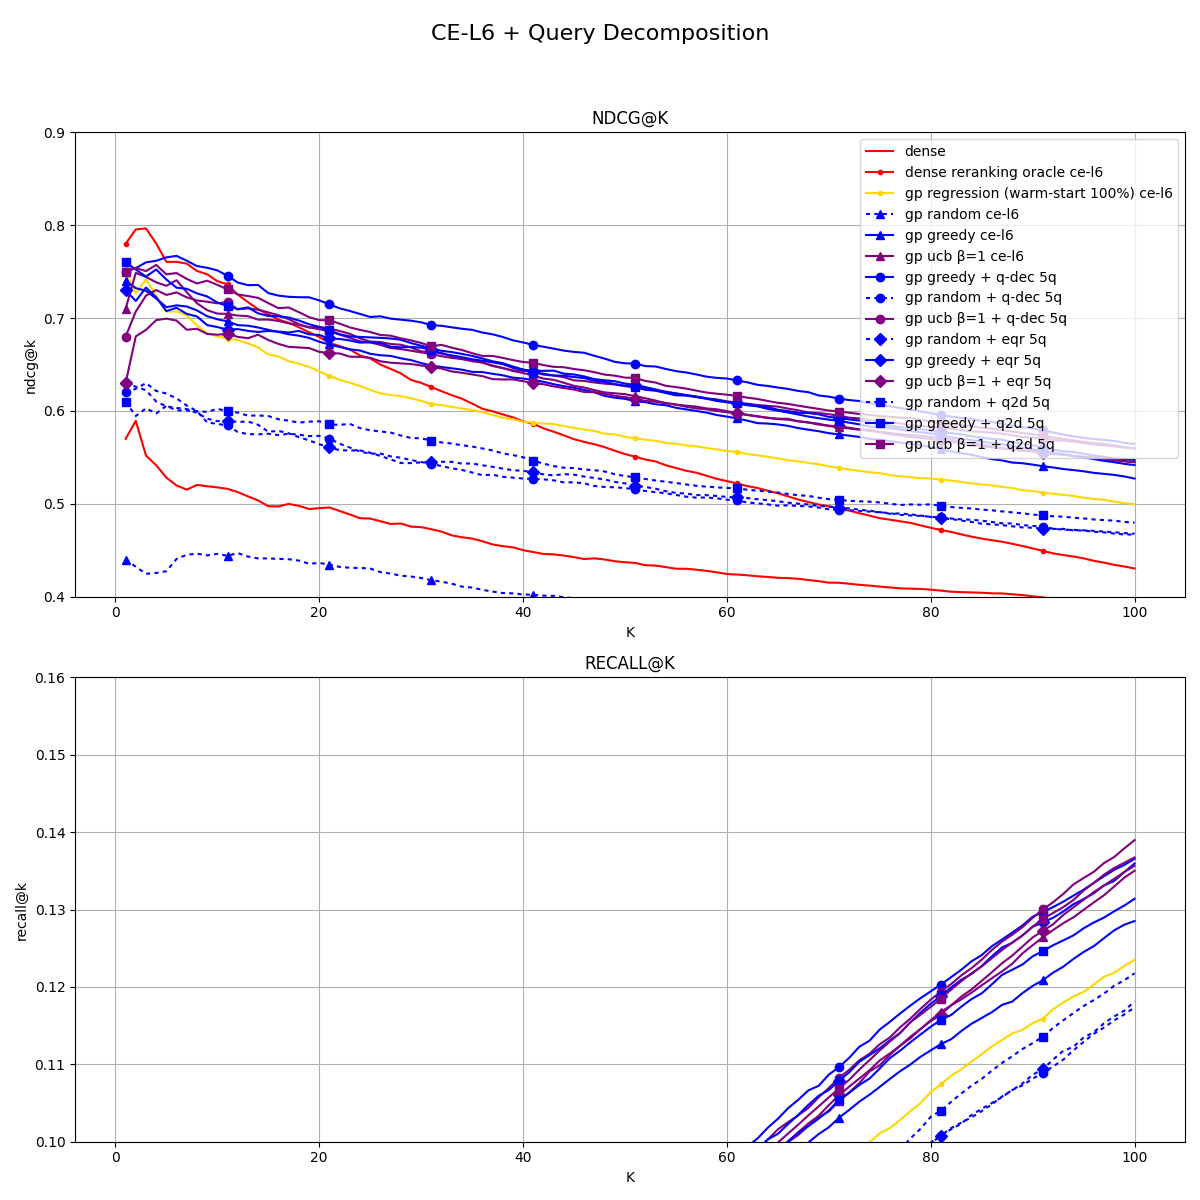
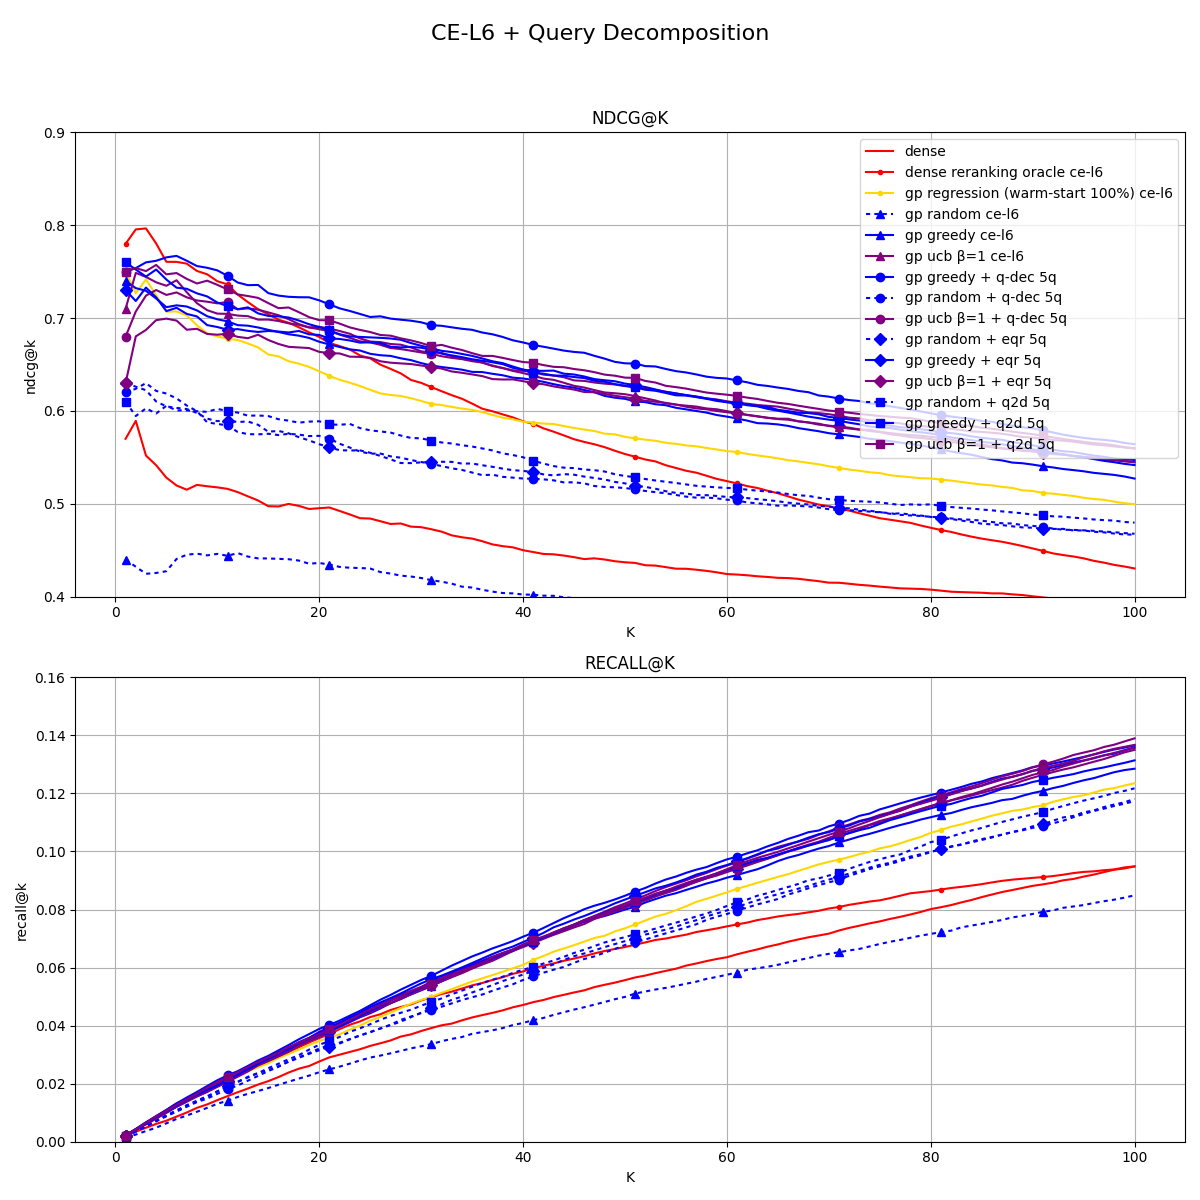
make and test ce time cleanup

diff --git a/scripts/data_gen_and_processing/make_ce_times_per_batch.py b/scripts/data_gen_and_processing/make_ce_times_per_batch.py
@@ -1,0 +1,145 @@
+# clean_obs_times.py
+#
+# Usage:
+#   python clean_obs_times.py "C:\path\to\experiments"
+#
+# What it does:
+# - Recursively finds any ".../detailed_results.json" whose PATH contains a directory
+#   with "ce" in its name (case-insensitive).
+# - For each hit:
+#   - reads config.yaml from (detailed_results.json).parent.parent / "config.yaml"
+#   - extracts active_learning.k_acq and active_learning.n_obs_iterations
+#   - greedily compresses observation_times until length <= ceil(n_obs_iterations / k_acq):
+#       repeatedly replace the contiguous window of length k_acq with the smallest sum
+#       by that sum (single element).
+#   - writes the modified JSON back in-place (with a .bak backup)
+
+import argparse
+import json
+import math
+import shutil
+from pathlib import Path
+
+import yaml
+
+
+def path_has_ce_dir(p: Path) -> bool:
+    # "dir 'ce' somewhere in the name" => any path component contains "ce"
+    # e.g., ".../dense_oracle/ce/l6/..." or ".../cache_ce_l6/..."
+    return any("ce" in part.lower() for part in p.parts)
+
+
+def load_k_acq_and_n_obs(config_path: Path) -> tuple[int, int]:
+    with config_path.open("r", encoding="utf-8") as f:
+        cfg = yaml.safe_load(f)
+
+    al = (cfg or {}).get("active_learning", {}) or {}
+    k_acq = int(al["k_acq"])
+    n_obs = int(al["n_obs_iterations"])
+    if k_acq <= 0 or n_obs < 0:
+        raise ValueError(f"Bad values in {config_path}: k_acq={k_acq}, n_obs_iterations={n_obs}")
+    return k_acq, n_obs
+
+
+def greedy_compress(times: list[float], k_acq: int, n_obs_iterations: int) -> list[float]:
+    # target number of batch-timing entries
+    target_len = math.ceil(n_obs_iterations / k_acq) if k_acq > 0 else len(times)
+    if target_len < 0:
+        target_len = 0
+
+    # Work on a copy
+    t = list(times)
+
+    # If k_acq==1, no compression possible/needed beyond target_len trimming logic
+    if k_acq <= 1:
+        return t[:target_len] if len(t) > target_len else t
+
+    # Greedily compress until we reach target_len
+    while len(t) > target_len:
+        if len(t) < k_acq:
+            # can't take a full window; stop
+            break
+
+        # Find window of length k_acq with smallest sum
+        # Sliding window O(n)
+        window_sum = sum(t[:k_acq])
+        best_sum = window_sum
+        best_i = 0
+
+        for i in range(1, len(t) - k_acq + 1):
+            window_sum += t[i + k_acq - 1] - t[i - 1]
+            if window_sum < best_sum:
+                best_sum = window_sum
+                best_i = i
+
+        # Replace that window with its sum (single element)
+        t = t[:best_i] + [float(best_sum)] + t[best_i + k_acq :]
+
+    return t
+
+
+def process_detailed_results(dr_path: Path, make_backup: bool = True) -> bool:
+    # returns True if modified
+    config_path = dr_path.parent.parent.parent / "config.yaml"
+    if not config_path.exists():
+        print(f"[SKIP] No config.yaml at expected location: {config_path}")
+        return False
+
+    k_acq, n_obs = load_k_acq_and_n_obs(config_path)
+
+    with dr_path.open("r", encoding="utf-8") as f:
+        data = json.load(f)
+
+    if "observation_times" not in data or not isinstance(data["observation_times"], list):
+        print(f"[SKIP] No observation_times list in: {dr_path}")
+        return False
+
+    old = data["observation_times"]
+    new = greedy_compress(old, k_acq=k_acq, n_obs_iterations=n_obs)
+
+    if new == old:
+        print(f"[OK]   No change: {dr_path} (k_acq={k_acq}, n_obs_iterations={n_obs}, len={len(old)})")
+        return False
+
+    if make_backup:
+        bak = dr_path.with_suffix(dr_path.suffix + ".bak")
+        if not bak.exists():
+            shutil.copy2(dr_path, bak)
+
+    data["observation_times"] = new
+    with dr_path.open("w", encoding="utf-8") as f:
+        json.dump(data, f, indent=2, ensure_ascii=False)
+
+    print(
+        f"[MOD]  {dr_path}\n"
+        f"       k_acq={k_acq}, n_obs_iterations={n_obs}, "
+        f"len {len(old)} -> {len(new)}"
+    )
+    return True
+
+
+def main():
+    ap = argparse.ArgumentParser()
+    ap.add_argument("root", type=str, help="Root directory to search")
+    ap.add_argument("--no-backup", action="store_true", help="Do not write .bak backups")
+    args = ap.parse_args()
+
+    root = Path(args.root).expanduser().resolve()
+    if not root.exists():
+        raise SystemExit(f"Root path does not exist: {root}")
+
+    hits = 0
+    mods = 0
+
+    for dr in root.rglob("detailed_results.json"):
+        if not path_has_ce_dir(dr):
+            continue
+        hits += 1
+        if process_detailed_results(dr, make_backup=False):
+            mods += 1
+
+    print(f"\nDone. hits={hits}, modified={mods}")
+
+
+if __name__ == "__main__":
+    main()

diff --git a/src/nl_pe/llm/prompter.py b/src/nl_pe/llm/prompter.py
@@ -34,6 +34,7 @@ class Prompter(TextScorer):
                 self.llm_max_label = 3
 
     def score(self, state, doc_ids):
+        state.setdefault("observation_times", [])
         #add scoring prompt to cache name if it doesn't end with it
         
         self.logger.debug(f"PW LLM Scoring doc_ids: {doc_ids}")
